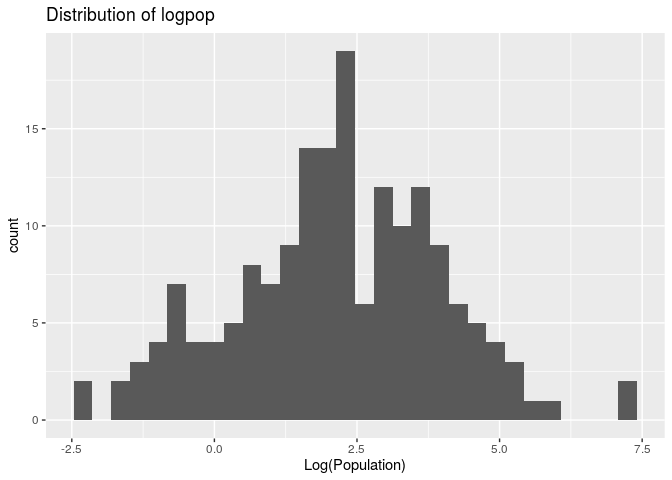
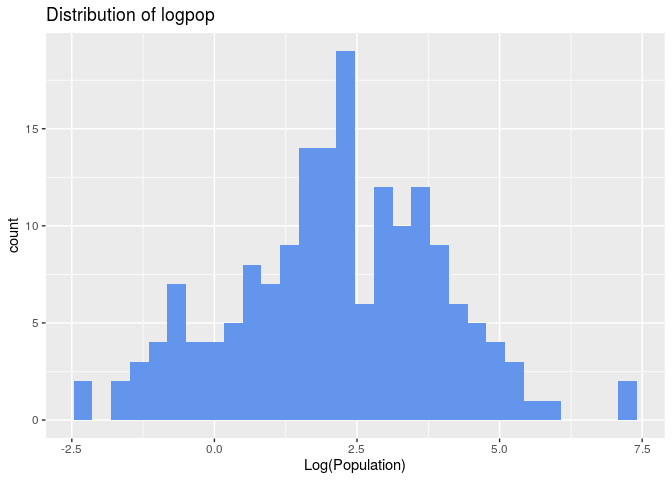
Scatterplots edited more

Changed region(s): [[0.0938, 0.0938, 0.8438, 0.875], [0.9062, 0.7812, 0.9688, 0.875]]

diff --git a/01-proposal/proposal.md b/01-proposal/proposal.md
@@ -7,14 +7,14 @@ Rtists
 library(tidyverse)
 ```
 
-    ## ── Attaching packages ──────────────────────────────────────────────────────────────────────── tidyverse 1.2.1 ──
+    ## ── Attaching packages ─────────────────────────── tidyverse 1.2.1 ──
 
     ## ✔ ggplot2 3.2.1     ✔ purrr   0.3.2
     ## ✔ tibble  2.1.3     ✔ dplyr   0.8.3
     ## ✔ tidyr   0.8.3     ✔ stringr 1.4.0
     ## ✔ readr   1.3.1     ✔ forcats 0.4.0
 
-    ## ── Conflicts ─────────────────────────────────────────────────────────────────────────── tidyverse_conflicts() ──
+    ## ── Conflicts ────────────────────────────── tidyverse_conflicts() ──
     ## ✖ dplyr::filter() masks stats::filter()
     ## ✖ dplyr::lag()    masks stats::lag()
 
@@ -135,7 +135,7 @@ skim()
     ##  n obs: 173 
     ##  n variables: 1 
     ## 
-    ## ── Variable type:numeric ────────────────────────────────────────────────────────────────────────────────────────
+    ## ── Variable type:numeric ───────────────────────────────────────────
     ##  variable missing complete   n   mean      sd  p0  p25  p50   p75    p100
     ##       GDP       0      173 173 729.71 2486.04 0.6 28.3 88.9 439.6 23159.1
     ##      hist
@@ -172,7 +172,7 @@ skim()
     ##  n obs: 173 
     ##  n variables: 1 
     ## 
-    ## ── Variable type:numeric ────────────────────────────────────────────────────────────────────────────────────────
+    ## ── Variable type:numeric ───────────────────────────────────────────
     ##  variable missing complete   n   mean      sd  p0  p25  p50   p75    p100
     ##       GDP       0      173 173 729.71 2486.04 0.6 28.3 88.9 439.6 23159.1
     ##      hist
@@ -210,7 +210,7 @@ skim()
     ##  n obs: 173 
     ##  n variables: 1 
     ## 
-    ## ── Variable type:numeric ────────────────────────────────────────────────────────────────────────────────────────
+    ## ── Variable type:numeric ───────────────────────────────────────────
     ##  variable missing complete   n mean   sd    p0  p25  p50  p75  p100
     ##    logGDP       0      173 173 4.61 2.08 -0.51 3.34 4.49 6.09 10.05
     ##      hist
@@ -247,7 +247,7 @@ skim()
     ##  n obs: 173 
     ##  n variables: 1 
     ## 
-    ## ── Variable type:numeric ────────────────────────────────────────────────────────────────────────────────────────
+    ## ── Variable type:numeric ───────────────────────────────────────────
     ##   variable missing complete   n  mean    sd  p0 p25  p50  p75 p100
     ##  TaxBurden       0      173 173 22.19 10.25 1.6  14 20.7 30.2   47
     ##      hist
@@ -280,7 +280,7 @@ skim()
     ##  n obs: 173 
     ##  n variables: 1 
     ## 
-    ## ── Variable type:numeric ────────────────────────────────────────────────────────────────────────────────────────
+    ## ── Variable type:numeric ───────────────────────────────────────────
     ##     variable missing complete   n mean    sd   p0  p25  p50  p75 p100
     ##  GovSpending       0      173 173 32.2 10.67 10.6 23.6 31.6 39.8 64.2
     ##      hist
@@ -316,7 +316,7 @@ skim()
     ##  n obs: 173 
     ##  n variables: 1 
     ## 
-    ## ── Variable type:numeric ────────────────────────────────────────────────────────────────────────────────────────
+    ## ── Variable type:numeric ───────────────────────────────────────────
     ##    variable missing complete   n  mean     sd  p0 p25 p50  p75   p100
     ##  Population       0      173 173 42.16 149.89 0.1 2.9 9.5 31.4 1390.1
     ##      hist
@@ -350,7 +350,7 @@ skim()
     ##  n obs: 173 
     ##  n variables: 1 
     ## 
-    ## ── Variable type:numeric ────────────────────────────────────────────────────────────────────────────────────────
+    ## ── Variable type:numeric ───────────────────────────────────────────
     ##    variable missing complete   n  mean     sd  p0 p25 p50  p75   p100
     ##  Population       0      173 173 42.16 149.89 0.1 2.9 9.5 31.4 1390.1
     ##      hist
@@ -368,8 +368,9 @@ apply a logarithmic transform to population below.
 ``` r
 economic_data <- economic_data %>%
   mutate(logpop=log(Population))
+
 ggplot(data=economic_data, aes(x=logpop)) +
-  geom_histogram() +
+  geom_histogram(fill = "cornflowerblue") +
   labs(title="Distribution of logpop", x="Log(Population)")
 ```
 
@@ -401,7 +402,7 @@ skim()
     ##  n obs: 173 
     ##  n variables: 1 
     ## 
-    ## ── Variable type:numeric ────────────────────────────────────────────────────────────────────────────────────────
+    ## ── Variable type:numeric ───────────────────────────────────────────
     ##      variable missing complete   n mean   sd  p0 p25 p50 p75 p100     hist
     ##  Unemployment       0      173 173 7.27 5.67 0.1 3.7 5.5 9.3 27.3 ▆▇▅▂▁▁▁▁
 
@@ -445,7 +446,7 @@ skim()
     ##  n obs: 173 
     ##  n variables: 1 
     ## 
-    ## ── Variable type:numeric ────────────────────────────────────────────────────────────────────────────────────────
+    ## ── Variable type:numeric ───────────────────────────────────────────
     ##   variable missing complete   n  mean    sd   p0 p25 p50 p75   p100
     ##  Inflation       0      173 173 10.87 82.56 -0.9 1.3 2.8 5.5 1087.5
     ##      hist
@@ -533,7 +534,7 @@ economic_data %>%
     ##  n obs: 173 
     ##  n variables: 1 
     ## 
-    ## ── Variable type:numeric ────────────────────────────────────────────────────────────────────────────────────────
+    ## ── Variable type:numeric ───────────────────────────────────────────
     ##    variable missing complete   n mean  sd p0 p25 p50 p75 p100     hist
     ##  TariffRate       0      173 173 5.61 4.4  0   2 4.2 8.7 18.6 ▇▅▃▃▃▁▁▁
 
@@ -563,7 +564,7 @@ economic_data %>%
     ##  n obs: 173 
     ##  n variables: 1 
     ## 
-    ## ── Variable type:numeric ────────────────────────────────────────────────────────────────────────────────────────
+    ## ── Variable type:numeric ───────────────────────────────────────────
     ##       variable missing complete   n  mean    sd p0 p25 p50 p75 p100
     ##  IncomeTaxRate       0      173 173 28.78 13.32  0  20  30  35   60
     ##      hist
@@ -597,7 +598,7 @@ skim()
     ##  n obs: 173 
     ##  n variables: 1 
     ## 
-    ## ── Variable type:numeric ────────────────────────────────────────────────────────────────────────────────────────
+    ## ── Variable type:numeric ───────────────────────────────────────────
     ##          variable missing complete   n  mean   sd p0 p25 p50 p75 p100
     ##  CorporateTaxRate       0      173 173 23.95 8.89  0  20  25  30   50
     ##      hist
@@ -630,7 +631,7 @@ skim()
     ##  n obs: 173 
     ##  n variables: 1 
     ## 
-    ## ── Variable type:numeric ────────────────────────────────────────────────────────────────────────────────────────
+    ## ── Variable type:numeric ───────────────────────────────────────────
     ##    variable missing complete   n  mean   sd p0  p25  p50  p75  p100
     ##  PublicDebt       0      173 173 56.46 33.8  0 35.2 49.4 69.9 236.4
     ##      hist
@@ -642,7 +643,7 @@ skewed. There are several outliers with public debt more than 175%. The
 mode of the distribution is around 30%. The median public debt is 49.4%
 and the interquartile range is 35%.
 
-### Multi-Variate Analysis of Response vs Predictor Variables
+#### Multi-Variate Analysis of Response vs Predictor Variables
 
 Finally, we can visualize paired scatter plots of the relationship
 between GDP and each of our predictor variables. This is shown below.
@@ -698,13 +699,15 @@ pairs(logGDP ~ TariffRate + logpop + Population + Unemployment + Inflation + Pub
 pairs(logGDP ~ GovSpending + IncomeTaxRate + CorporateTaxRate + TaxBurden, data=temp, lower.panel = NULL)
 ```
 
-![](proposal_files/figure-gfm/Scatterplot%20logGDP-2.png)<!-- --> Based
-on the scatterplots of the response variables against the quantitative
-predictor variables, we see that there is now a much stronger a linear
-relationship between the two. Particularly, we note that the logGDP
-against population scatterplot shows a curved distribution which
-resembles a logarithimic function. This is why we transformed population
-into the logpop variable, which has a linear relationship with GDP
+![](proposal_files/figure-gfm/Scatterplot%20logGDP-2.png)<!-- -->
+
+Based on the scatterplots of the response variables against the
+quantitative predictor variables, we see that there is now a much
+stronger a linear relationship between the two. Particularly, we note
+that the logGDP against population scatterplot shows a curved
+distribution which resembles a logarithimic function. This is why we
+transformed population into the logpop variable, which has a linear
+relationship with GDP
 
 Moreover, we also noticed some multicollinearity issues between
 predictor variables. In specific, the relationship between GovSpending
@@ -780,7 +783,9 @@ the model is overly complex we will use BIC instead.
 ## Section 4. References
 
 <https://www.heritage.org/index/ranking>
+
 <https://ideas.repec.org/a/rsr/supplm/v61y2013i1p96-104.html>
+
 <https://iopscience.iop.org/article/10.1088/1742-6596/820/1/012008>
 
 ## Data
